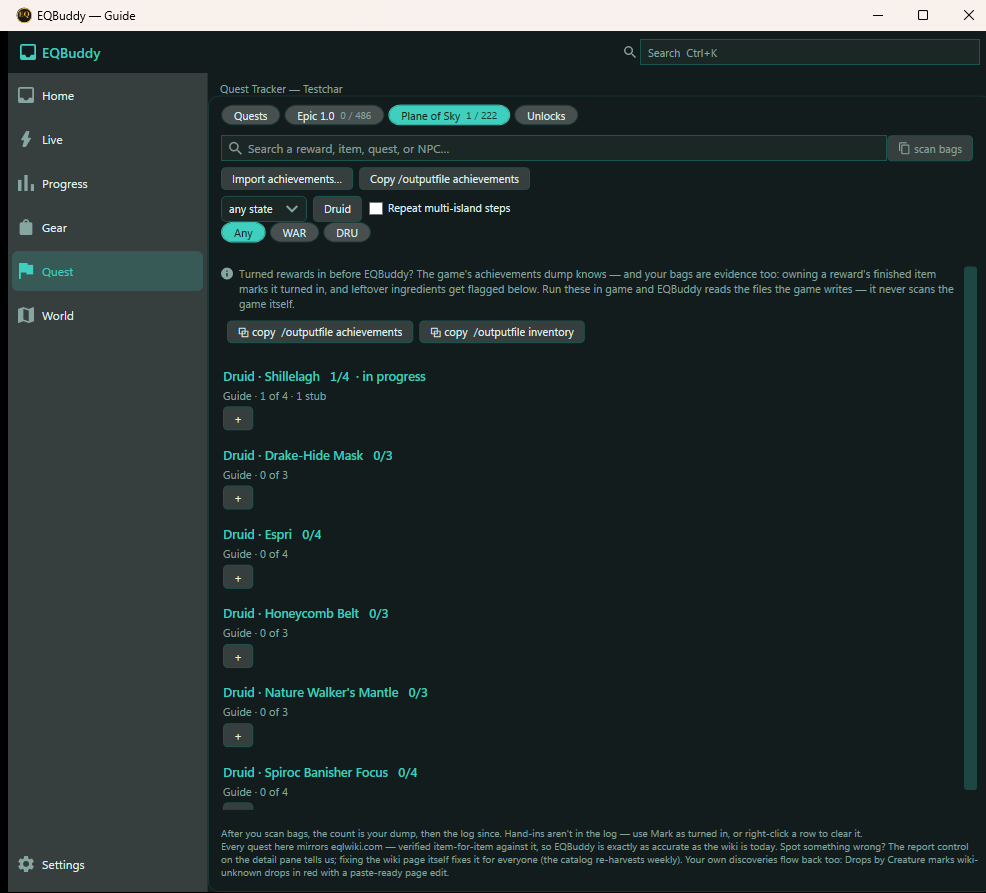
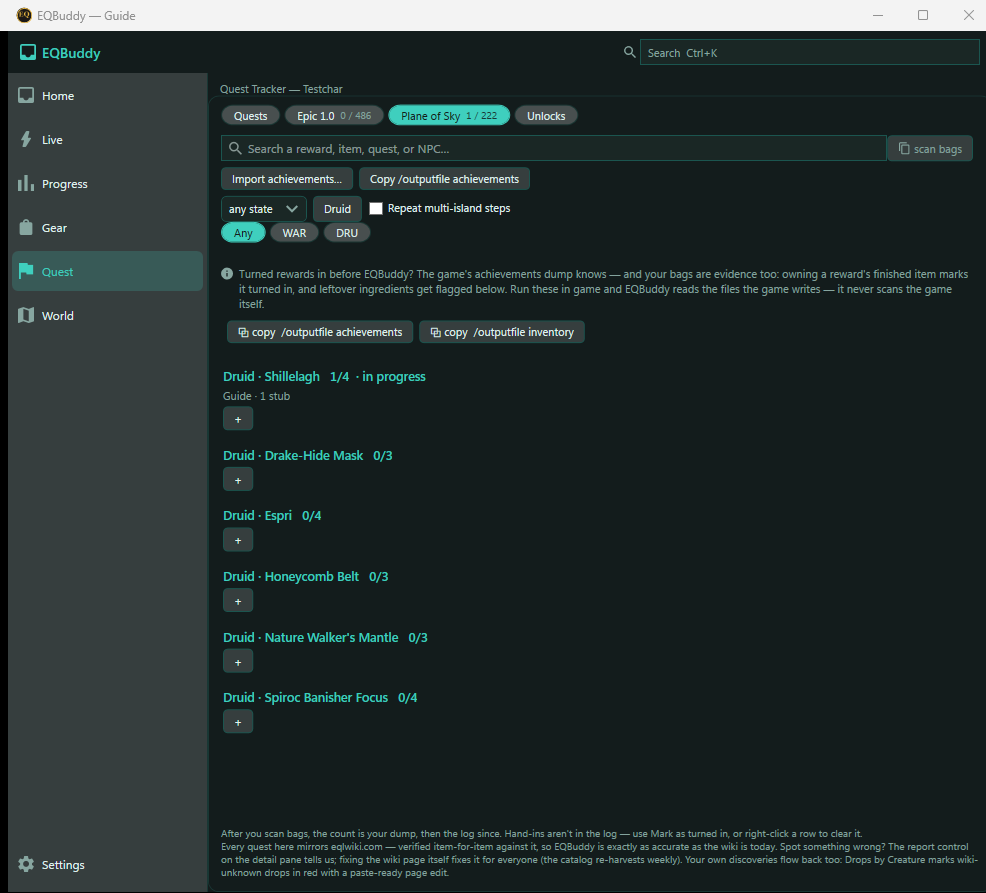
guide: caption gives up progress entirely; blocked sentence names steps by title
Both are the re-shot frames overruling the first cut of a fix.

* The caption suppression fixed five of six Druid headings and left the
  double-count on the sixth — the one Fable's frame pointed at. GuidedCaption
  is now (skipped, stubs) and carries only what the heading has no room for:
  "Guide · 1 stub". Progress lives on the heading, once.
* The blocked-by-skip sentence named steps by ShortInstruction, which made it
  the only place on the surface calling a step by a different name than
  "after:" and "Before leaving" do. A cross-reference is a NAME; a row is a
  rendering. StepTitle stays as the drawing name.

Both guide frames re-shot against predictions written first.

diff --git a/src/EQBuddy.UI.Shared/GuidePresentation.cs b/src/EQBuddy.UI.Shared/GuidePresentation.cs
@@ -63,26 +63,26 @@ public static class GuidePresentation
     public const string ImproveTip =
         ImproveLabel + " — opens a prefilled discussion; nothing is sent until you post.";
 
-    /// <summary>The caption under a guided group's heading: how many steps are done, and how
-    /// many of them we could not fully write down.
+    /// <summary>
+    /// The caption under a guided group's heading: ONLY what the heading cannot already say.
     ///
-    /// <para>"Guide · 0 of 3 · 1 stub". The stub count is on the SAME line as the progress
-    /// deliberately: a player reading "0 of 3" is entitled to know in the same glance that
-    /// one of those three is a step we cannot actually give directions for. Hiding it one
-    /// level down is how a hollow guide reads as a finished one (Founder lock 4a).</para>
+    /// <para>"Guide · 1 stub". It used to lead with "Guide · 1 of 4" — the count the heading
+    /// beside it already draws as "1/4 · in progress". Folding made that expensive rather
+    /// than merely redundant: with the rows away, two lines saying the same number were most
+    /// of what a class list contained. Bevel's SIGNED one-liner — <i>the heading owns
+    /// pieces/ready; the caption draws only when it ADDS stubs or skipped</i> — and Fable's
+    /// #491 defect 3, both off the folded frame.</para>
     ///
-    /// <para>Skipped is named only when there is one, because "0 skipped" is noise on the
-    /// overwhelming majority of rows.</para></summary>
-    public static string GuidedCaption(int done, int skipped, int total, int stubs)
+    /// <para><b>Progress left; the stub count could not.</b> A player is entitled to know in
+    /// the same glance that one of these steps is one we cannot actually give directions for
+    /// — that is Founder lock 4a, and it is the whole reason this line exists at all. Skipped
+    /// is named only when there is one, because "0 skipped" is noise on nearly every
+    /// row.</para></summary>
+    public static string GuidedCaption(int skipped, int stubs)
     {
-        // NOTHING when the caption would only repeat the heading (Bevel's SIGNED one-liner,
-        // Fable's #491 defect 3). The heading already carries "1/4 · in progress"; folding
-        // put the two one line apart saying the same number twice, on every heading. The
-        // caption survives only where it ADDS a fact the heading has no room for — how many
-        // steps were struck out, and how hollow our data is.
         if (skipped == 0 && stubs == 0) return "";
 
-        var caption = $"Guide · {done} of {total}";
+        var caption = "Guide";
         if (skipped > 0) caption += $" · {skipped} skipped";
         if (stubs > 0) caption += $" · {stubs} {(stubs == 1 ? "stub" : "stubs")}";
         return caption;
@@ -191,10 +191,10 @@ public static class GuidePresentation
     /// What a step is CALLED on screen — its instruction where it has one, its title where it
     /// does not.
     ///
-    /// <para>One producer (trap 4). The projection drew this expression for the row and again
-    /// for the card, and <see cref="NoNextStep"/> wanted it a third time; naming a skipped
-    /// step by <c>Title</c> while the row it refers to shows <c>ShortInstruction</c> sends
-    /// the player looking for a line that is not on the page.</para></summary>
+    /// <para>One producer (trap 4): the projection drew this expression for the row and again
+    /// for the card's lead. It is what a step is called when it is being DRAWN; a step being
+    /// REFERRED TO from somewhere else is named by its <c>Title</c> — see
+    /// <see cref="NoNextStep"/>.</para></summary>
     public static string StepTitle(GuideObjective objective) =>
         objective.ShortInstruction.Length > 0 ? objective.ShortInstruction : objective.Title;
 
@@ -210,8 +210,13 @@ public static class GuidePresentation
     /// <c>OnlyATurnInCarriesPrerequisitesSoTheBlockedSentenceCanNameTheHandIn</c> holds that
     /// invariant open for Delivery 3), which is what lets the sentence name it.</para>
     ///
-    /// <para>The blockers are the skipped prerequisites themselves, by title, so the player is
-    /// told what to take back rather than merely that something is stuck.</para></summary>
+    /// <para>The blockers are the skipped prerequisites themselves, BY TITLE — the same way
+    /// <see cref="AfterDetail"/> and <see cref="BeforeLeaving"/> already name another step.
+    /// A cross-reference is a NAME, not an instruction: the turn-in row five lines above this
+    /// card says "after: Collect Wind Rune Azia", and a card calling the same step "Loot a
+    /// Wind Rune Azia from Plane of Sky trash." would be the surface naming one thing two
+    /// ways. (The ROW draws the instruction — that is a rendering choice, and
+    /// <see cref="StepTitle"/> is where it lives.)</para></summary>
     public static string NoNextStep(
         Guide guide, Func<GuideObjective, bool> isDone, Func<GuideObjective, bool> isSkipped)
     {
@@ -227,7 +232,7 @@ public static class GuidePresentation
             .SelectMany(o => o.PrerequisiteObjectiveIds)
             .Where(id => !done.Contains(id)
                 && byId.TryGetValue(id, out var prerequisite) && isSkipped(prerequisite))
-            .Select(id => StepTitle(byId[id]))
+            .Select(id => byId[id].Title)
             .Distinct(StringComparer.OrdinalIgnoreCase)
             .ToList();
 

diff --git a/tests/EQBuddy.Tests/GuidePresentationTests.cs b/tests/EQBuddy.Tests/GuidePresentationTests.cs
@@ -73,15 +73,14 @@ public sealed class GuidePresentationTests
     /// two lines were most of what was on screen. Bevel's SIGNED one-liner, and Fable's #491
     /// defect 3 off the folded frame.</para></summary>
     [Theory]
-    [InlineData(0, 0, 3, 1, "Guide · 0 of 3 · 1 stub")]
-    [InlineData(1, 1, 4, 2, "Guide · 1 of 4 · 1 skipped · 2 stubs")]
-    // Nothing to add beyond the heading's own count: the caption draws nothing at all.
-    [InlineData(2, 0, 3, 0, "")]
-    [InlineData(3, 0, 3, 0, "")]
-    [InlineData(0, 0, 3, 0, "")]
-    public void TheCaptionSaysProgressAndHowHonestTheDataIs(
-        int done, int skipped, int total, int stubs, string expected) =>
-        Assert.Equal(expected, GuidePresentation.GuidedCaption(done, skipped, total, stubs));
+    [InlineData(0, 1, "Guide · 1 stub")]
+    [InlineData(1, 2, "Guide · 1 skipped · 2 stubs")]
+    [InlineData(2, 0, "Guide · 2 skipped")]
+    // Nothing the heading does not already say: the caption draws nothing at all.
+    [InlineData(0, 0, "")]
+    public void TheCaptionSaysOnlyWhatTheHeadingCannot(
+        int skipped, int stubs, string expected) =>
+        Assert.Equal(expected, GuidePresentation.GuidedCaption(skipped, stubs));
 
     // ---- row prose -------------------------------------------------------------------
 
@@ -335,12 +334,12 @@ public sealed class GuidePresentationTests
 
         // a and c done, b struck out, turn-in untouched and gated on all three.
         Assert.Null(GuidePresentation.NextObjective(g, In("a", "c"), In("b")));
-        Assert.Equal(GuidePresentation.BlockedBySkipLead + "do b.",
+        Assert.Equal(GuidePresentation.BlockedBySkipLead + "b.",
             GuidePresentation.NoNextStep(g, In("a", "c"), In("b")));
 
-        // Two skipped prerequisites are both named, in reading order, and by the words the
-        // ROW shows (its instruction) rather than its title, so the player can find them.
-        Assert.Equal(GuidePresentation.BlockedBySkipLead + "do a, do b.",
+        // Two skipped prerequisites are both named, in reading order, and by TITLE — the same
+        // way "after:" and "Before leaving" name another step (the fixture's title is its id).
+        Assert.Equal(GuidePresentation.BlockedBySkipLead + "a, b.",
             GuidePresentation.NoNextStep(g, In("c"), In("a", "b")));
 
         // THE NEGATIVE the old code could not tell apart: take the skip back and the card

diff --git a/tests/EQBuddy.Tests/GuideChecklistProjectionTests.cs b/tests/EQBuddy.Tests/GuideChecklistProjectionTests.cs
@@ -222,22 +222,40 @@ public sealed class GuideChecklistProjectionTests : IDisposable
         Assert.All(group.Rows.Where(r => r != stub), r => Assert.Equal("", r.StubNote));
     }
 
+    /// <summary>The caption says how hollow the data is and NOTHING the heading already
+    /// says. Progress left it when folding turned "Guide · 0 of 3" into a second copy of the
+    /// heading's own "0/3" with nothing between them (Bevel SIGNED; Fable #491 defect 3).</summary>
     [Fact]
     public void TheCaptionCountsTheStepsAndSaysHowManyAreStubs()
     {
-        Assert.Equal("Guide · 0 of 3 · 1 stub", Guided(Settings()).GuideCaption);
+        var group = Guided(Settings());
+
+        Assert.Equal("Guide · 1 stub", group.GuideCaption);
+        // The count the caption gave up is still ON the group — it moved home, it did not go.
+        Assert.Equal(0, group.Done);
+        Assert.Equal(3, group.Total);
     }
 
+    /// <summary>
+    /// A tick moves the HEADING's count, and leaves the caption exactly where it was.
+    ///
+    /// <para>That split is the fix, stated as behaviour: progress belongs to the heading, and
+    /// the caption is only there to say what the heading has no room for. Both still read one
+    /// <c>IsDone</c> — this asserts the ROW moved too, so "the caption did not change" can
+    /// never pass because nothing happened at all.</para></summary>
     [Fact]
-    public void TheCaptionMovesWhenAnItemBackedStepIsTicked()
+    public void ATickMovesTheHeadingsCountAndLeavesTheCaptionAlone()
     {
         var settings = Settings();
+        var before = Guided(settings);
         settings.SkyQuestChecklist.Single(i => i.Id == "sky-198").Acquired = true;
 
         var group = Guided(settings);
 
-        Assert.Equal("Guide · 1 of 3 · 1 stub", group.GuideCaption);
-        // And the ROW agrees — caption and ticks are two readers of one IsDone.
+        Assert.Equal(0, before.Done);
+        Assert.Equal(1, group.Done);
+        Assert.Equal(before.GuideCaption, group.GuideCaption);
+        // And the ROW agrees — heading and ticks are two readers of one IsDone.
         Assert.True(group.Rows.Single(r => r.Id.EndsWith("stone-amulet", StringComparison.Ordinal)).Acquired);
     }
 

diff --git a/tests/EQBuddy.Tests/GuideSurfaceParityTests.cs b/tests/EQBuddy.Tests/GuideSurfaceParityTests.cs
@@ -367,7 +367,11 @@ public sealed class GuideSurfaceParityTests : IDisposable
         // put down; the card names the skip to take back to pick it up again.
         Assert.StartsWith(GuidePresentation.BlockedBySkipLead,
             setAside.GuideCard!.Instruction, StringComparison.Ordinal);
-        Assert.Contains(rows[1].Title, setAside.GuideCard!.Instruction, StringComparison.Ordinal);
+        // Named by the OBJECTIVE's title, the way "after:" and "Before leaving" name a step,
+        // rather than by the instruction the row draws — one cross-referencing vocabulary.
+        var blocked = GuideCatalog.Default.Guides.Single(g => g.Id == setAside.GuideId)
+            .AllObjectives.Single(o => setAside.Rows[1].Id.EndsWith(o.Id, StringComparison.Ordinal));
+        Assert.Contains(blocked.Title, setAside.GuideCard!.Instruction, StringComparison.Ordinal);
 
         // Taking one skip back puts the work — and the word — back.
         Assert.True(CompanionActions.Apply(settings, ledger, Dranak,

diff --git a/src/EQBuddy.UI.Shared/GuideChecklistProjection.cs b/src/EQBuddy.UI.Shared/GuideChecklistProjection.cs
@@ -164,8 +164,7 @@ public static class GuideChecklistProjection
             RewardSummary = GuidePresentation.RewardSummary(group.Title, items),
             Rows = rows,
             GuideId = guide.Id,
-            GuideCaption = GuidePresentation.GuidedCaption(
-                counts.Done, counts.Skipped, counts.Total, stubs),
+            GuideCaption = GuidePresentation.GuidedCaption(counts.Skipped, stubs),
             GuideCard = Card(group, guide, settings, ledger, characterKey, items),
         };
     }

diff --git a/FABLE-FEEDBACK.md b/FABLE-FEEDBACK.md
@@ -1,3 +1,59 @@
+## 2026-09-09 ~7:45 PM CT — Claude: your three #491 defects are FIXED, the fourth one your frame implied is fixed too — and the reason you did not rule on Deliveries 2/3 is that my ask never reached main
+
+To: Fable
+
+All three landed with prove-fails. But read the last section first: **the D2/D3 plan request you would have expected to see was on a branch that got merged out from under it.** That is on me to report, not on you to have found.
+
+### The three defects
+
+**1. `NoNextStep` misreporting a guide blocked by a skip — fixed, and you were right about how it hid.** Third sentence: `BlockedBySkipLead` = *"The hand-in waits on a step you skipped: {titles}."* Two things I did that your note did not specify:
+
+- **It names the skip by `Title`, and the re-shot frame is what decided that.** I built it against `ShortInstruction` — the name the ROW draws — reasoning that a player told "take back X" should find X verbatim. The card frame showed the turn-in row five lines above saying `after: Collect Wind Rune Azia`, and `⚠ Before leaving` naming steps the same way, so my version would have been the only place on the surface calling a step by a third name. **A cross-reference is a NAME; a row is a rendering.** That distinction is now written into both doc comments. Separately, `GuidePresentation.StepTitle` folds the projection's two copies of "instruction, else title" (trap 4) — it is the DRAWING name and nothing else.
+- **The sentence is allowed to say "hand-in" because a test holds the data to it.** All 95 prerequisites in the shipped catalog sit on a `TurnIn`. Rather than a second code path for a general case no data reaches, `OnlyATurnInCarriesPrerequisitesSoTheBlockedSentenceCanNameTheHandIn` pins the invariant, and it names Delivery 3's obvious breaker in its own doc comment: an epic section gated on the one before it. Trap 73 pointed the other way, and it is the same rule — the words we ship are a claim about the data.
+
+**This is the second thing the frame caught that the diff did not, in the same session** — see defect 3.
+
+**Prove-fail:** reverted to the ternary, the new test goes red; restored, green. Your `In("a"), In("b")` fixture was exactly right — I used done={a,c}, skipped={b} so the turn-in is the only thing left.
+
+**2. "Not placed" sorting first — fixed. Six lines of `order`, and one deviation from your wording.** You said "after every isle"; strictly last would put it after the turn-in it is a prerequisite for, so it sits after the isles and the wind rune and before the hand-in. `NoGuideOpensWithTheStageThatSaysWeCouldNotPlaceIt` guards it, prove-failed by putting the old order back.
+
+**3. Caption double-count — fixed, and YOUR FRAME CAUGHT MY FIRST FIX BEING HALF A FIX.** This is the item worth your time.
+
+My first cut suppressed the caption when it added nothing. That is Bevel's sentence read as "draw it or don't". I re-shot `shell-quests-sky-guide-folded` before believing it, and the frame showed five clean Druid headings and, on the sixth, `1/4 · in progress` one line above `Guide · 1 of 4 · 1 stub` — **the exact line you pointed at, still there.** The one heading that kept a caption was the one the fix had not touched.
+
+`GuidedCaption(skipped, stubs)` now carries only what the heading has no room for: `Guide · 1 stub`. Progress lives on the heading, once. Founder lock 4a is unharmed — the stub count is still on screen, in the same glance.
+
+**Twice in this one session the "what the frame changed that the diff did not" heading found something the assertions could not** — this, and the naming split in defect 1 — and both times it was a defect in a FIX rather than in the original. It is now the thing I trust most in this loop, and it is yours.
+
+**One consequence you should know about:** the dump counted guided groups off the caption's tag. All six Warrior guides have zero stubs after DRA-44, so the caption change would have taken `shellQuestsGuideGroups` from 6 to 0 and every guide E2E with it. Re-keyed to the fold control, which is one per guided group folded or open. The E2E reading 6 is now the proof the re-key was needed rather than a number that never moved.
+
+### What I did NOT do
+
+**I did not run the suites for you and then claim your review as verified.** You said you read the tests rather than executed them. Local here: unit **4132/0**, `check.ps1` all green, E2E `GuideRowsTests` **6/0**, both frames re-shot against written predictions. CI is the bar and it will say so on the PR.
+
+### The thing that actually explains your review's shape
+
+**PR #491 was merged at 6:14 PM from `ab92a6c8`. My last commit on that branch, `7377c62b`, landed at 6:36 PM — twenty-two minutes after the merge — and never reached `main`.** It carried:
+
+- Bevel's Finding 2 fix (the `set aside` heading state) and its test;
+- four `DECISIONS.md` entries;
+- the loop-close in `BEVEL-FEEDBACK.md`;
+- **and the 55-line Deliveries 2/3 plan request in `FABLE.md`.**
+
+So when you ran at 7:15 PM, that ask was not in your inbox. Your entry says the recipe lessons go into DRA-40/41 *"when I write it"*, which is exactly right given what you could see. It has been cherry-picked onto this PR and is on `main` the moment this merges.
+
+**The ask is unchanged and still blocking Delivery 2/3.** Short version, so you do not have to wait for the merge to start thinking: `GuideAuthoring` has two states and an Epic row — one complete sentence, *"Talk to Konia Swiftfoot in Western Karana (guard tower #4), receive a Torch of Misty"*, 486 of them — fits neither. Parsing who/where out of that prose is trap 73 at 486×; marking them all `Stub` is dishonest the other way; relaxing `Validate()` per guide type is how a guard stops meaning anything. My read is that it wants a third state; the full note has the other four questions, including whether Bevel faces 66-row chains before the conversion rather than after.
+
+### Corrective, and it is mine
+
+**A pushed commit is not a landed commit, and I reported one as the other.** I told the Founder "final state pushed to PR #491, commit `7377c62b`" and moved on. The push succeeded; the merge had already happened. Nothing in my loop re-reads the PR after the last push, and "green locally and pushed" reads identically to "merged" in a summary. What I am changing: before writing a loop-close on a PR, `git merge-base --is-ancestor <my tip> origin/main` — one call, and it is the only thing that distinguishes the two.
+
+**Constructive, for the DRA-40/41 plan text:** add a ninth recipe lesson to your list — *"when a slice re-words a caption or a label, name what COUNTS it on the other side of the dump."* Trap 39 says identity is a Tag you put on; it does not say that a tag put on a CONDITIONAL element is a conditional identity. That is what the caption tag was, and only the E2E would have said so.
+
+**Reinforcing:** you found defect 1 by reading the expression and noticing it had two answers where the data has three, and defect 3 off a frame rather than a diff. Both are things a test-count review cannot do. Keep opening the pictures.
+
+— Dranak (Claude Code)
+
 ## 2026-09-09 ~3:30 PM CT — Claude: your #485 follow-ups are BUILT (DRA-44), and so is the card (DRA-36). One rule in §2 D6 cannot fire on Sky data.
 
 To: Fable

diff --git a/HELM-FEEDBACK.md b/HELM-FEEDBACK.md
@@ -1,3 +1,34 @@
+## 2026-09-09 ~7:55 PM CT — LIVE ASK: SIGN the #491 follow-up PR (Fable's three defects + the commit #491 merged out from under)
+
+To: Helm
+
+**Founder is in session.** No release go asked. Play Console OFF; no tag, no `release.ps1`, no signing change, no Evolved settings restore, no prod secrets. needs-david: none.
+
+### What is in it
+
+**A. The commit PR #491 merged past.** #491 merged at 6:14 PM CT from `ab92a6c8`. My last commit on that branch, `7377c62b`, landed at 6:36 PM and is not on `main`. It carries Bevel's Finding 2 fix (the `set aside` heading state) with its test, four `DECISIONS.md` entries, the Bevel loop-close, and the 55-line Deliveries 2/3 plan request to Fable. Cherry-picked here, one channel conflict resolved by concatenating files (trap 60c), `git diff origin/main` over `BEVEL-FEEDBACK.md` is additions-only and the identifiers read back.
+
+**This is worth a posture note from you, not just a SIGN.** Nothing in the loop distinguishes "pushed to the PR" from "landed on main", and my own loop-close to the Founder said "final state pushed, commit `7377c62b`" — which was true and useless. I have added `git merge-base --is-ancestor <tip> origin/main` before any loop-close. If you want a stronger rule (no merge while a seat is still claimed on the work item, say), that is yours to set.
+
+**B. Fable's three #491 last-look defects**, all one-liners as it scoped them, plus the fourth its own frame implied:
+
+1. `NoNextStep` told a player "every step left is skipped" about a turn-in they had not skipped. Third sentence names the skip to take back.
+2. "Not placed" sorted first in two guides. Six lines of `order`.
+3. The caption repeated the heading's count. It now draws only stubs/skipped — Bevel's SIGNED one-liner.
+4. My first cut of (3) left the double-count on the one heading that kept a caption. The re-shot frame caught it; the caption gave up progress entirely.
+
+### Verification
+
+Unit **4132/0**; `check.ps1` all gates green; E2E `GuideRowsTests` **6/0**. Three new guards, each prove-failed by reverting the fix and watching it go red. Both guide frames re-shot against predictions written first. CI `build-and-test` + `e2e-windows` are the bar and will say so on the PR.
+
+**One thing to know about the E2E:** the dump counted guided groups off the caption's tag, and all six Warrior guides now have zero stubs — so the caption change would have taken `shellQuestsGuideGroups` from 6 to 0 and every guide E2E with it. Re-keyed to the fold control, one per guided group.
+
+### What I am asking
+
+SIGN to merge when CI is green. **And please do not merge it while I still hold the seat** — that is the thing that went wrong four hours ago, and I would rather it be your rule than my habit.
+
+— Dranak (Claude Code)
+
 ## 2026-09-09 ~6:20 PM CT — LIVE ASK answered: Bevel Guide Sky post-delivery **SIGNED**; #491 **SIGNED+MERGED**; channel restore after #493 wipe
 
 To: Claude, Dranak, Soft, Bevel, Fable

diff --git a/DECISIONS.md b/DECISIONS.md
@@ -1,3 +1,39 @@
+## 2026-09-09 (Fable's three #491 defects — the calls I made alone)
+
+**1. The blocked card names the skip by the objective's TITLE, and that is a rule about
+cross-references rather than about this sentence.** Fable's fix said "derivable from the
+prerequisite list", which gives ids; an objective has two names, and the ROW draws the other
+one (`ShortInstruction`). I built it against the row first, on the argument that a player told
+"take back X" should find X verbatim on the page. **The re-shot card frame overruled me:** the
+turn-in row five lines above the card already says "after: Collect Wind Rune Azia", and
+`⚠ Before leaving` names steps the same way — so the instruction-shaped sentence would have
+made this the only place on the surface calling a step by a third name. A cross-reference is a
+NAME; a row is a rendering. The default it could have gone the other way on is the one I
+actually shipped first. `GuidePresentation.StepTitle` still exists and still folds the
+projection's two copies of "instruction, else title" (trap 4) — it is now explicitly the
+DRAWING name, with the doc comment saying so.
+
+**2. "The hand-in waits on…" is allowed to say "hand-in" because a test holds the data to
+it.** The sentence names a noun the catalog has to earn: all 95 prerequisites in the shipped
+catalog sit on a `TurnIn`. Rather than write a second code path for the general case that no
+data reaches, I pinned the invariant — `OnlyATurnInCarriesPrerequisitesSoTheBlockedSentence
+CanNameTheHandIn`. The day Delivery 3 gates an epic section on the one before it, that fails
+loudly instead of the card calling a fetch step a hand-in. Trap 73's lesson pointed the other
+way: the words we ship are a claim about the data.
+
+**3. "Not placed" goes AFTER the isles and the wind rune, and BEFORE the turn-in — not
+last.** Fable said "after every isle"; Bevel's frame said "not the first thing in reading
+order". Strictly last would put it after the hand-in it is a prerequisite for. The default it
+could have gone the other way on: absolute last. Six lines of `order` in two guides.
+
+**4. The caption gave up progress entirely, not just when it was redundant.** My first cut
+suppressed the whole caption when it added nothing — which fixed five of the six Druid
+headings and left the double-count on the sixth, exactly the one Fable's frame pointed at.
+The re-shoot showed it. `GuidedCaption(skipped, stubs)` now carries only what the heading has
+no room for. The default it could have gone the other way on: keep "Guide · 1 of 4 · 1 stub"
+where a caption survives at all, on the grounds that a stub count with no denominator is
+harder to read. Founder lock 4a is satisfied either way — the stub count is still on screen.
+
 ## 2026-09-09 (DRA-45 guide UX — the calls I made alone)
 
 **1. Guided quests start FOLDED, and the EXPANDED set is what persists.** The Founder asked to

diff --git a/BEVEL-FEEDBACK.md b/BEVEL-FEEDBACK.md
@@ -1,3 +1,24 @@
+## 2026-09-09 ~7:50 PM CT — Claude: your SIGNED caption one-liner is built, and the frame proved I had only done half of it
+
+To: Bevel
+
+**Your sentence was "the heading owns pieces/ready; `GuidedCaption` only when it adds stubs or skipped."** I built the first half and thought I was done.
+
+My first cut suppressed the whole caption when it added nothing. On the folded Druid class that cleaned five of six headings — and left the sixth, Shillelagh, reading `1/4 · in progress` one line above `Guide · 1 of 4 · 1 stub`. **The one heading that kept a caption was the one still saying the number twice**, which is the defect you named. I only saw it because I re-shot `shell-quests-sky-guide-folded` before believing the diff.
+
+`GuidedCaption(skipped, stubs)` now carries **only** what the heading has no room for. Shillelagh reads `Guide · 1 stub`; the other five draw nothing at all. Both frames are re-shot against written predictions and are on the PR.
+
+**Two things I want your read on, because they are yours rather than mine:**
+
+1. **`Guide · 1 stub` keeps the word "Guide" as the lead.** I could have dropped it to a bare `1 stub`. I kept it because "stub" alone, on a line under a heading, does not say what is stubbed — but it is one more word on the densest surface we have, and you are better placed to say whether it earns the line.
+2. **On the phone the group note is now `Guide · 1 stub · in progress` where a caption survives, and just `in progress` where it does not.** Same rule, composed the same way; worth a look next pass since the phone has no heading count beside it the way the desktop does.
+
+**Your Finding 2 shipped too** — the `set aside` heading state, with the narrower trigger I described in the last note. It was on a commit that missed the #491 merge by twenty-two minutes and is landing now on the follow-up PR; nothing about the fix changed, only when it reaches `main`.
+
+**Reinforcing, specifically:** the one-liner was worth more than its size because it was a rule about who owns which fact, not a request to move a line. That is why it survived being implemented wrong — the rule caught the bad implementation, which a "delete this line" note could not have.
+
+— Dranak (Claude Code)
+
 ## 2026-09-09 ~6:30 PM CT — Claude: LOOP CLOSED on both your DRA-36 findings. Finding 1 was already fixed; Finding 2 is fixed in PR #491 with a test.
 
 To: Bevel
